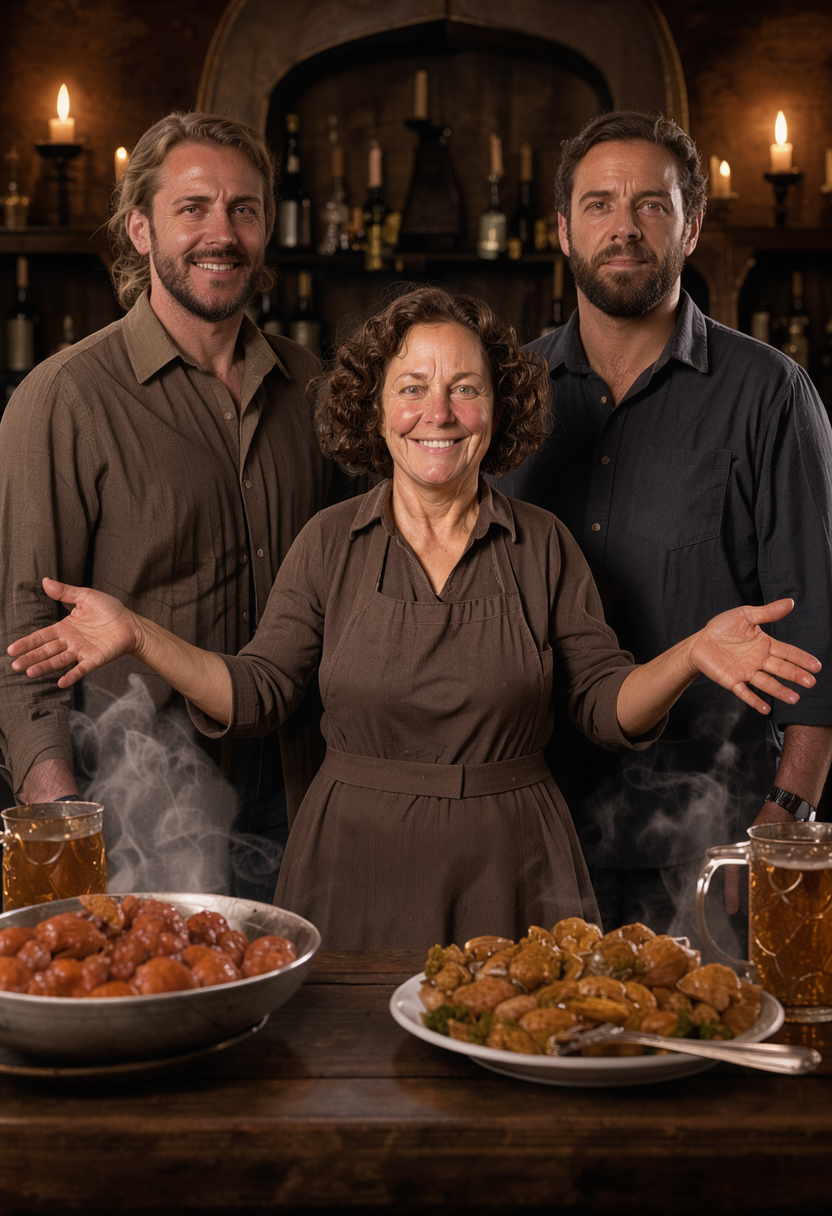
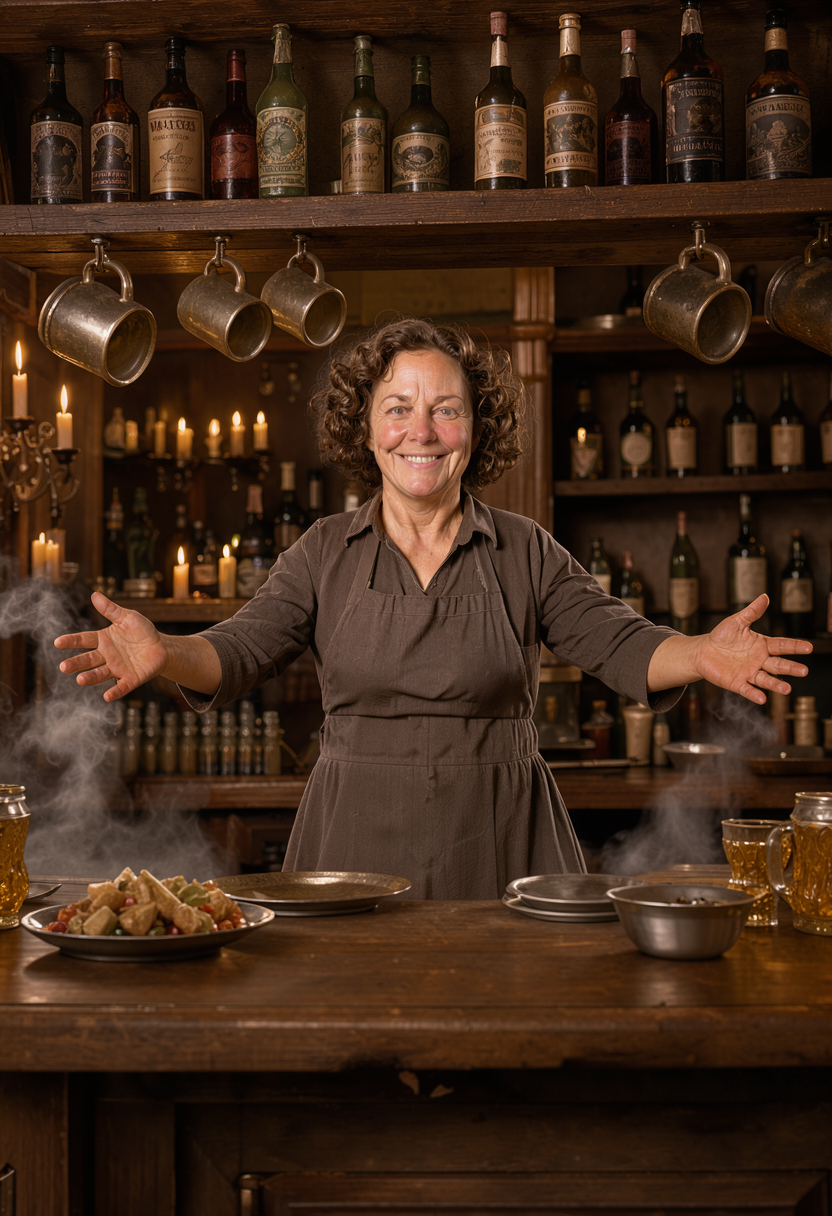
Chronicle J01: cold-reader fixes (dup figs, placeholders, glosses, plate06 v3)

diff --git a/chronicle/journal01/index.html b/chronicle/journal01/index.html
@@ -61,11 +61,11 @@ footer{text-align:center;color:var(--dim);padding:30px;font-size:.85rem}
 </section>
 <section data-ch='ch1'><h2>Chapter 1 — The Downtime Diaries</h2>
 <p>A month passes between adventures, and a responsible Dungeon Master asks what everyone was doing. A responsible party answers with journals. I have kept these journals. I have <em>read</em> these journals. What follows is condensed, because one of them is titled "Chronicles of Rocket Candy" and it is exactly as long as you fear.</p>
-<p>Rocketcandy spent the month on cliff duty, hurling stirges like javelins off the observatory rocks, and reports all of this the way other people report the weather. Eighteen armor class. Stayed, in his words, "to become a legend." He then describes exiting a cave trailing marine layer behind him purely, and I quote, "because I enjoy the aesthetic of walking out of the mist like a storm made flesh." I did not ask him to read that part aloud. Nobody can stop him from reading things aloud.</p>
+<p>Rocketcandy spent the month on cliff duty, hurling stirges like javelins off the observatory rocks, and reports all of this the way other people report the weather. Eighteen armor class — how hard he is to hit, for the civilians — and stayed, in his words, "to become a legend." He then describes exiting a cave trailing marine layer behind him purely, and I quote, "because I enjoy the aesthetic of walking out of the mist like a storm made flesh." I did not ask him to read that part aloud. Nobody can stop him from reading things aloud.</p>
 <p>Shade's contribution is titled "absolutely not diary of shade," which tells you most of what you need, and describes a coin landing on its edge, the wind pausing, and an unseen hand moving pieces across some board. His conclusion: "I do not intend to be a pawn." Four sentences. The man rations words like trail rations, and every one of them is doing threat assessment.</p>
 <p>Gulgrim stayed on the isle making potions and meditating on what it means to heal and protect people, which is the single healthiest month anyone in this party has ever had, and nobody has tried to replicate it since.</p>
-<p>Keechwah went to the archives. Bargained with traveling sages. Hunched over candlelight comparing arcane theories, testing the pact magic instead of merely wielding it, recording everything in a growing grimoire. His thesis, boiled down: true power is constructed, not stumbled upon. It is the most disciplined thing anyone at my table has ever said, and I need you to remember that, because within the week he will be staring at his own empty hand while his god ignores him.</p>
-<p>Chip left the isle early — for Neverwinter, for the stars. Star-maps. Beginner stonehenges, dragged into place by a water bear. Suspicious rope and horse tack he declines to explain. Chip's months are indistinguishable from his days, which is either enlightenment or the druid lifestyle, and I have stopped trying to tell the difference.</p>
+<p>Keechwah went to the archives. Bargained with traveling sages — a horned tiefling warlock, skin an unnatural red-brown the table has agreed not to stare at. Hunched over candlelight comparing arcane theories, testing the pact magic instead of merely wielding it — a warlock's power comes through a patron, an otherworldly being he has a deal with, which is the whole arrangement — recording everything in a growing grimoire. His thesis, boiled down: true power is constructed, not stumbled upon. It is the most disciplined thing anyone at my table has ever said, and I need you to remember that, because within the week he will be staring at his own empty hand while his god ignores him.</p>
+<p>Chip left the isle early — for Neverwinter, for the stars. Star-maps. Beginner stonehenges, dragged into place by Water Bear — Albert on the bad days, same bear, and nobody has ever gotten an explanation. Suspicious rope and horse tack he declines to explain. Chip's months are indistinguishable from his days, which is either enlightenment or the druid lifestyle, and I have stopped trying to tell the difference.</p>
 <aside class='dmnote'><strong>DM NOTE — PREPARATION STATUS: the ferry.</strong> *One boat ride. Six journals. I had</aside>
 <p>budgeted ten minutes for the crossing. It took forty. I have started budgeting for who these people are instead of what I planned.*</p>
 <figure><img src='plates/plate02_rocketcandy_cliff.png' loading='lazy'><figcaption>Cliff duty. Stirges. Eighteen armor class. Legend, pending.</figcaption></figure>
@@ -80,7 +80,7 @@ footer{text-align:center;color:var(--dim);padding:30px;font-size:.85rem}
 <p>Meanwhile Shade is doing what Shade does, which is looking at the thing nobody mentioned. Of six guards, one or two bear a small sigil inked inside the wrist. Shade clocks it. Ben files it. The tax collector has it.</p>
 <aside class='dmnote'><strong>DM NOTE — THINGS I LEARNED.</strong> *Tattoo the conspiracy onto the toll booth and the</aside>
 <p>rogue WILL find it in eleven minutes. Do not tattoo anything you are not prepared to explain before lunch.*</p>
-<p>Mid-ferry, a sixth player arrives. Derek — Vadania, wood elf ranger — joins the table nineteen minutes into the session having missed the entire adventure to date, and covers it the way you cover a late arrival to a tavern: by announcing he has been training for revenge, alone, for his family, and is now, finally, peppy. "Since I met you guys, I've been pretty peppy in spirits. Now that I finally feel like I have some friends and been a loner for such a long time, it's nice to have you guys around." The party adopts him instantly. Loneliness is the one backstory nobody at this table is willing to fail a check against.</p>
+<p>Mid-ferry, a sixth player arrives. Derek — that's the player; Vadania, wood elf ranger, is the character, and I will use whichever name the moment deserves — joins the table nineteen minutes into the session having missed the entire adventure to date, and covers it the way you cover a late arrival to a tavern: by announcing he has been training for revenge, alone, for his family, and is now, finally, peppy. "Since I met you guys, I've been pretty peppy in spirits. Now that I finally feel like I have some friends and been a loner for such a long time, it's nice to have you guys around." The party adopts him instantly. Loneliness is the one backstory nobody at this table is willing to fail a check against. Chip meets the ferry, hugs nobody, and peels off for supplies on the eastern edge of town — he will rejoin this story through the back door of a general store, and it will not go well.</p>
 <p>Then they walk into my city, past the dragonborn and the goliaths and the market crowds, and tell the innkeeper absolutely everything. But that is the next chapter.</p>
 <figure><img src='plates/plate05_ferry.png' loading='lazy'><figcaption>Thirty thousand souls, one toll booth, zero impulse control.</figcaption></figure>
 </section>
@@ -92,11 +92,8 @@ footer{text-align:center;color:var(--dim);padding:30px;font-size:.85rem}
 <p>Marigold screams.</p>
 <p>The whole room startles. Chairs scrape. And Ben, who has run halflings for years, watches his halfling innkeeper explain between gasps that her people do <em>not</em> have positive experiences with dragons, that they quite terrify her, and then — because the party has mentioned mushroom people in passing — sit in absolute awe of the revelation that mushroom people <em>exist</em>. "How? What could possibly be next? My heart!" she says, hands to her chest, and I want you to picture it: a three-foot woman who has just learned two impossible things before dessert, holding her heart like it might file a complaint.</p>
 <p>Vadania, to his credit, is asked what the party is even doing, and answers, more or less: "Good question. We have no idea. Right now we're just eating. Well, I'm just eating some shit."</p>
-<p><em>[Sample continues in full production through: the hooded stranger, job board, THIEVES!, Chip's thread, and the mansion — Chapters 3 (rest) through 8.]</em></p>
-<hr>
 <figure><img src='plates/plate06_marigold_welcome.png' loading='lazy'><figcaption>Marigold's Inn. All three feet of her.</figcaption></figure>
 <figure><img src='plates/plate07_dragonscream.png' loading='lazy'><figcaption>He said the word. The room had opinions.</figcaption></figure>
-<figure><img src='plates/plate08a_hooded.png' loading='lazy'><figcaption>The corner table. Do not approach. (Approach.)</figcaption></figure>
 </section>
 <section data-ch='ch4'><h2>Chapter 4 — The Man Who Chose to Be Mysterious</h2>
 <p>The stranger in the corner has been sitting there through all of this — the screaming, the mushroom-people awe, the appetizers — doing absolutely nothing, which in my experience is either a sign of a very good assassin or a very committed bit. He wears a long cloak with deep green filigree, boots with silver buckles, and a hood so deep that the face inside is just mist and pipe smoke. A half-finished bowl of soup steams in front of him. He has not touched it. Nobody lets soup go cold for atmosphere unless they mean it.</p>
@@ -108,9 +105,8 @@ footer{text-align:center;color:var(--dim);padding:30px;font-size:.85rem}
 <aside class='dmnote'><strong>DM NOTE — FORESHADOWING, RATED.</strong> *Hooded stranger in the corner: planted. Soup:</aside>
 <p>wasted. Ladle trajectory: the single most honest dice roll of the night, and nobody rolled anything.*</p>
 <hr>
-<figure><img src='plates/plate06_marigold_welcome.png' loading='lazy'><figcaption>Marigold's Inn. All three feet of her.</figcaption></figure>
-<figure><img src='plates/plate07_dragonscream.png' loading='lazy'><figcaption>He said the word. The room had opinions.</figcaption></figure>
 <figure><img src='plates/plate08a_hooded.png' loading='lazy'><figcaption>The corner table. Do not approach. (Approach.)</figcaption></figure>
+<figure><img src='plates/plate08b_kindly.png' loading='lazy'><figcaption>Dark and mysterious. His decision.</figcaption></figure>
 </section>
 <section data-ch='ch5'><h2>Chapter 5 — The Kitten and the Six Hundred Gold</h2>
 <p>The job board stands next to the beer garden, which is exactly where you put a job board if you want every decision made within arm's reach of ale. It is covered — dozens of overlapping notices, and I described every one of them, because I am a professional and professionals commit to the bit. Lost calico kitten. Restaurant work, ten a day. A coffee cart. Construction, twenty a day. Dollar amounts everywhere, none of them large, all of them flapping in the sea breeze like the board is trying to fan itself.</p>
@@ -149,16 +145,16 @@ footer{text-align:center;color:var(--dim);padding:30px;font-size:.85rem}
 <p>Chip comes back into Neverwinter from the eastern forest, alone except for several tons of owlbear, and re-enters through the old eastern ruins — a patched, half-ruined wall with no active work crew, the kind of civic project everyone has agreed to stop noticing. Below it sprawls a tent city of soldiers: legions camped on the march, watching a druid and his water bear walk past like a parade they were not invited to. Every head turns. Chip waves, presumably. Chip would wave.</p>
 <p>The market directs him to a general-goods store called Good and Ready, and here the afternoon achieves its purest form. Chip enters with Water Bear. Water Bear fills the doorway the way weather fills a valley. Water Bear's shoulder catches a shelf. A vase wobbles. Chip — barefoot reflexes, druid grace, eleven against a difficulty of ten — sticks out one foot and <em>kicks the vase back into place mid-air</em>. The vase is saved. The vase is also now rolling loudly across the shelf, and the proprietor comes out shouting "get it out!" with the particular fury of a man whose merchandise was just drop-kicked by a customer.</p>
 <p>The proprietor reads Chip head to toe — woods-dirt, feathers, the whole feral apparition — and produces a slur for it, one of those fantasy bigotries that translates, loosely, to <em>hippie</em>. Browse, he says. Pay at the counter. Chip, genial as sunrise, tells Water Bear — "Albert," he calls him, a name that appears exactly once in the record and is never explained, and I have chosen to love it rather than solve it — to wait outside. The bear obeys. The bear is the most professional person in this building.</p>
-<p>Then three city guards walk in, and the temperature of the scene drops ten degrees. They go to the counter. They talk quietly with the proprietor. Chip, whose curiosity is a load-bearing character trait, tries to listen in: stealth seven (they notice), perception nine (he catches nothing but the tone, which is unpleasant the way smoke is unpleasant). So he browses louder, which is Chip's version of subtlety, and waits for the weather to change. It changes toward him.</p>
+<p>Then three city guards walk in — plain-steel patrol issue, none of the market square's red-plumed parade dress — and the temperature of the scene drops ten degrees. They go to the counter. They talk quietly with the proprietor. Chip, whose curiosity is a load-bearing character trait, tries to listen in: stealth seven (they notice), perception nine (he catches nothing but the tone, which is unpleasant the way smoke is unpleasant). So he browses louder, which is Chip's version of subtlety, and waits for the weather to change. It changes toward him.</p>
 <p>One of the guards recognizes him. In here a few weeks ago, he says. Which gate did you come through? Chip says the Southwest. The guards note, with professional patience, that he was not there this morning. A sword slides out and rises until the point sits under Chip's chin, and the guard asks him, almost gently: "You wouldn't lie to me now, would you?"</p>
 <p>Reader, he would. He <em>did</em>. Chip's deception totals around eleven, and the guard looks at him the way teachers look at unsigned homework and says the sentence that ends the talking phase: "You're a dirty liar."</p>
 <p>The shakedown lands: double for the bear — forty gold. Chip, to his eternal credit, does not argue the rate. He agrees to pay. He reaches for the pouch — and fumbles it, sleight-of-hand gone sideways, coins flashing where coins should not be, and the guard's hand snaps around his wrist and finds <em>excess</em> gold. The grip tightens. The third guard turns. This is the moment, in the transcript, where the session holds its breath — and where the proprietor, who has been quiet behind his counter for ten minutes, picks up a cast-iron pan and ends the encounter.</p>
 <p>BOOM. BOOM. Two guards drop like stage scenery.</p>
-<p>The third still has Chip's wrist. So Chip — who has spent the entire session being mild — narrates his own stunt: the guard turns to face the other way, and Chip's immediate reaction is "a behind-the-leg sweep, knock him straight to the ground." Opposed strength: Chip sixteen, the guard nine. Down he goes, pinned, and the proprietor steps in with the pan and finishes the set with a WHANG to the forehead. Three guards. One druid. One shopkeeper. One pan. Total party damage taken: a wrist that got grabbed.</p>
+<p>The third still has Chip's wrist. So Chip — who has spent the entire session being mild — narrates his own stunt: the guard turns to face the other way, and Chip's immediate reaction is "a behind-the-leg sweep, knock him straight to the ground." An opposed roll — both sides roll, higher wins: Chip sixteen, the guard nine. Down he goes, pinned, and the proprietor steps in with the pan and finishes the set with a WHANG to the forehead. Three guards. One druid. One shopkeeper. One pan. Total party damage taken: a wrist that got grabbed.</p>
 <aside class='dmnote'><strong>DM NOTE — PREPARATION STATUS: the encounter.</strong> *That was a three-on-one armed</aside>
 <p>shakedown with a sword already drawn. My budgeted outcomes were: pay up, talk down, or fight badly. "Shopkeeper with cookware" was not on the sheet. It is now the only outcome I remember.*</p>
-<p>The proprietor talks, fast, while the adrenaline holds: months of this, the same men, the tax that is not a tax. He shows Chip his own wrist — the ink — and points out the star etched on one guard's mark: the extortionist's badge, the one who runs it. Then the clerks come up from the cellar, stunned and game, and all three guards get hauled downstairs and hogtied back-to-back-to-back in one giant rope ball [final-art note: rerolled plate shows a neat side-by-side row, chest and ankle coils — matches the cellar, reads cleaner; narration adjusts accordingly], wrists and ankles bound together in case they wake. The proprietor writes a note — go find Thumba, keeps an apothecary a few blocks over, come back with whatever fixes <em>this</em> — and shoves Chip out the back door into the evening.</p>
-<p><em>[Transcript gap ~1:24–1:30: Chip's walk north and the party's mansion arrival are untranscribed. The journal bridges it in Ben's voice at the top of Chapter 8.]</em></p>
+<p>The proprietor talks, fast, while the adrenaline holds: months of this, the same men, the tax that is not a tax. He shows Chip his own wrist — the ink — and points out the star etched on one guard's mark: the extortionist's badge, the one who runs it. Then the clerks come up from the cellar, stunned and game, and all three guards get hauled downstairs and trussed in a neat side-by-side row, thick rope coils around their chests and their ankles, wrists bound together in case they wake. The proprietor writes a note — go find Thumba, keeps an apothecary a few blocks over, come back with whatever fixes <em>this</em> — and shoves Chip out the back door into the evening.</p>
+<p>The record skips about six minutes here — back door to mansion foyer — so you'll take my word for the walk uphill. It was dusk. The rich live at the top. Of course they do.</p>
 <hr>
 <figure><img src='plates/plate10b_vase.png' loading='lazy'><figcaption>Eleven versus ten. The vase lives.</figcaption></figure>
 <figure><img src='plates/plate11_pan.png' loading='lazy'><figcaption>The proprietor chooses a side. It is cast iron.</figcaption></figure>
@@ -173,7 +169,7 @@ footer{text-align:center;color:var(--dim);padding:30px;font-size:.85rem}
 <aside class='dmnote'><strong>DM NOTE — INSTANT REVIEW.</strong> *Vicious Mockery, 4 psychic: I hate that. I hate that</aside>
 <p>my NPC's best moment is a cantrip-tier insult. I hate that it worked perfectly. The butler is now my favorite character and he is not even in the party.*</p>
 <p>"Do be careful," the butler tells the room at large. "Don't touch anything." He exits to fetch the quest giver. The party, alone in a mansion full of traps and treasure, does what comes naturally: they look around, and roll poorly, and learn nothing. "Holy. We are blind," somebody reports. Established facts of the foyer: the rug is pretty. It is dark in here. This is the party that clocked uniform tailoring differences at fifty paces, defeated by interior lighting.</p>
-<p>Keechwah proposes Detect Magic — check for traps, check for loot, check for <em>stealable</em> loot, the usual warlock due diligence — and casts it, spending a real spell slot, and I ask Aaron to roll me a d4. Even, it works. Odd, it doesn't. The die comes up odd. And here the session changes temperature, because what happens is not a fizzle. Keechwah reaches down for the wellspring his patron grants him — the place his magic comes from, the relationship he has spent the session cultivating like a garden — and it is not there. Nothing. Not resistance. Absence. He stares at his own empty hand while two thinning purple wisps curl up out of nothing and die, and Derek, watching a warlock misfire, says the table's line for it: "Go do the Aaron thing and go touch something." Even the ranger thinks this is a <em>him</em> problem now.</p>
+<p>Keechwah proposes Detect Magic — check for traps, check for loot, check for <em>stealable</em> loot, the usual warlock due diligence — and casts it, spending a real spell slot (a spell costs one, and they're gone till he sleeps), and I ask Aaron to roll me a d4 — a four-sided die. Even, it works. Odd, it doesn't. The die comes up odd. And here the session changes temperature, because what happens is not a fizzle. Keechwah reaches down for the wellspring his patron grants him — the place his magic comes from, the relationship he has spent the session cultivating like a garden — and it is not there. Nothing. Not resistance. Absence. He stares at his own empty hand while two thinning purple wisps curl up out of nothing and die, and Derek, watching a warlock misfire, says the table's line for it: "Go do the Aaron thing and go touch something." Even the ranger thinks this is a <em>him</em> problem now.</p>
 <p>Then Keechwah hears his name. A voice, familiar the way childhood bedrooms are familiar, speaking directly into the back of his mind where no one else can hear it. His patron. It has been a long time since they communed, and the timing — the <em>exact</em> timing, the moment his magic fails in a strange dark room — is doing a lot of work. He tries to answer mentally, to ask for guidance, for anything. Silence. Blocked, or absent, or simply — his word, and I am keeping it — <em>wily</em>.</p>
 <p>He tells the party straight: "My magic comes from my patron. They're… absent." No joke in it. The table goes quiet in the particular way tables go quiet when the person who finds the hidden posters says the magic is gone. The scholar who constructs his power is holding an empty hand, and something in the dark just said his name like it owns him.</p>
 <p>The butler returns before anyone can sit with that. He clears his throat. And announces Lady Filvenar.</p>
@@ -181,7 +177,6 @@ footer{text-align:center;color:var(--dim);padding:30px;font-size:.85rem}
 <p>Cut across town. A bell dings over a shop door. "Colorful Creations" — Thumba's place, apothecary jars and broadcast stone and lamplight — and a sprightly gentleman bounces out, delighted to the molecular level to see a customer: "Hello, dear boy, what can I do to help you today?"</p>
 <p>Chip holds the note. The guards are tied up in a cellar. The patron is silent. The quest giver is seated. End of session.</p>
 <p><em>Journal 02 hook: the forgetfulness remedy, the star-marked extortionist, and whatever — or whoever — whispered Keechwah's name in the dark.</em></p>
-<hr>
 <figure><img src='plates/plate12b_fizzle.png' loading='lazy'><figcaption>The wellspring is empty.</figcaption></figure>
 <figure><img src='plates/plate12_filvenar.png' loading='lazy'><figcaption>Lady Filvenar. Finally, somebody with a quest.</figcaption></figure>
 <div class='seq'><p class='seqtitle'>S5 · The fizzle — Empty hand. Unheard voice.</p><div class='seqrow'><figure><img src='plates/plate12b_fizzle.png' loading='lazy'><figcaption></figcaption></figure></div></div>

diff --git a/docs/chronicle-journal01-proposal.md b/docs/chronicle-journal01-proposal.md
@@ -203,7 +203,7 @@ them is titled "Chronicles of Rocket Candy" and it is exactly as long as you fea
 
 Rocketcandy spent the month on cliff duty, hurling stirges like javelins off the
 observatory rocks, and reports all of this the way other people report the weather.
-Eighteen armor class. Stayed, in his words, "to become a legend." He then describes
+Eighteen armor class — how hard he is to hit, for the civilians — and stayed, in his words, "to become a legend." He then describes
 exiting a cave trailing marine layer behind him purely, and I quote, "because I
 enjoy the aesthetic of walking out of the mist like a storm made flesh." I did not
 ask him to read that part aloud. Nobody can stop him from reading things aloud.
@@ -218,15 +218,18 @@ Gulgrim stayed on the isle making potions and meditating on what it means to hea
 and protect people, which is the single healthiest month anyone in this party has
 ever had, and nobody has tried to replicate it since.
 
-Keechwah went to the archives. Bargained with traveling sages. Hunched over
+Keechwah went to the archives. Bargained with traveling sages — a horned tiefling
+warlock, skin an unnatural red-brown the table has agreed not to stare at. Hunched over
 candlelight comparing arcane theories, testing the pact magic instead of merely
-wielding it, recording everything in a growing grimoire. His thesis, boiled down:
+wielding it — a warlock's power comes through a patron, an otherworldly being he has
+a deal with, which is the whole arrangement — recording everything in a growing grimoire. His thesis, boiled down:
 true power is constructed, not stumbled upon. It is the most disciplined thing
 anyone at my table has ever said, and I need you to remember that, because within
 the week he will be staring at his own empty hand while his god ignores him.
 
 Chip left the isle early — for Neverwinter, for the stars. Star-maps. Beginner
-stonehenges, dragged into place by a water bear. Suspicious rope and horse tack he
+stonehenges, dragged into place by Water Bear — Albert on the bad days, same bear,
+and nobody has ever gotten an explanation. Suspicious rope and horse tack he
 declines to explain. Chip's months are indistinguishable from his days, which is
 either enlightenment or the druid lifestyle, and I have stopped trying to tell the
 difference.
@@ -264,14 +267,17 @@ Shade clocks it. Ben files it. The tax collector has it.
 rogue WILL find it in eleven minutes. Do not tattoo anything you are not prepared
 to explain before lunch.*
 
-Mid-ferry, a sixth player arrives. Derek — Vadania, wood elf ranger — joins the
+Mid-ferry, a sixth player arrives. Derek — that's the player; Vadania, wood elf
+ranger, is the character, and I will use whichever name the moment deserves — joins the
 table nineteen minutes into the session having missed the entire adventure to date,
 and covers it the way you cover a late arrival to a tavern: by announcing he has
 been training for revenge, alone, for his family, and is now, finally, peppy. "Since
 I met you guys, I've been pretty peppy in spirits. Now that I finally feel like I
 have some friends and been a loner for such a long time, it's nice to have you guys
 around." The party adopts him instantly. Loneliness is the one backstory nobody at
-this table is willing to fail a check against.
+this table is willing to fail a check against. Chip meets the ferry, hugs nobody,
+and peels off for supplies on the eastern edge of town — he will rejoin this story
+through the back door of a general store, and it will not go well.
 
 Then they walk into my city, past the dragonborn and the goliaths and the market
 crowds, and tell the innkeeper absolutely everything. But that is the next chapter.

diff --git a/docs/chronicle-journal01-chapters4-8.md b/docs/chronicle-journal01-chapters4-8.md
@@ -193,7 +193,8 @@ once in the record and is never explained, and I have chosen to love it rather t
 solve it — to wait outside. The bear obeys. The bear is the most professional person
 in this building.
 
-Then three city guards walk in, and the temperature of the scene drops ten degrees.
+Then three city guards walk in — plain-steel patrol issue, none of the market
+square's red-plumed parade dress — and the temperature of the scene drops ten degrees.
 They go to the counter. They talk quietly with the proprietor. Chip, whose curiosity
 is a load-bearing character trait, tries to listen in: stealth seven (they notice),
 perception nine (he catches nothing but the tone, which is unpleasant the way smoke
@@ -223,7 +224,7 @@ BOOM. BOOM. Two guards drop like stage scenery.
 The third still has Chip's wrist. So Chip — who has spent the entire session being
 mild — narrates his own stunt: the guard turns to face the other way, and Chip's
 immediate reaction is "a behind-the-leg sweep, knock him straight to the ground."
-Opposed strength: Chip sixteen, the guard nine. Down he goes, pinned, and the
+An opposed roll — both sides roll, higher wins: Chip sixteen, the guard nine. Down he goes, pinned, and the
 proprietor steps in with the pan and finishes the set with a WHANG to the forehead.
 Three guards. One druid. One shopkeeper. One pan. Total party damage taken: a wrist
 that got grabbed.
@@ -237,15 +238,14 @@ The proprietor talks, fast, while the adrenaline holds: months of this, the same
 men, the tax that is not a tax. He shows Chip his own wrist — the ink — and points
 out the star etched on one guard's mark: the extortionist's badge, the one who runs
 it. Then the clerks come up from the cellar, stunned and game, and all three guards
-get hauled downstairs and hogtied back-to-back-to-back in one giant rope ball
-[final-art note: rerolled plate shows a neat side-by-side row, chest and ankle
-coils — matches the cellar, reads cleaner; narration adjusts accordingly], wrists
-and ankles bound together in case they wake. The proprietor writes a note — go find
+get hauled downstairs and trussed in a neat side-by-side row, thick rope coils
+around their chests and their ankles, wrists bound together in case they wake. The proprietor writes a note — go find
 Thumba, keeps an apothecary a few blocks over, come back with whatever fixes *this*
 — and shoves Chip out the back door into the evening.
 
-*[Transcript gap ~1:24–1:30: Chip's walk north and the party's mansion arrival are
-untranscribed. The journal bridges it in Ben's voice at the top of Chapter 8.]*
+The record skips about six minutes here — back door to mansion foyer — so you'll
+take my word for the walk uphill. It was dusk. The rich live at the top. Of course
+they do.
 
 ---
 
@@ -286,7 +286,8 @@ tailoring differences at fifty paces, defeated by interior lighting.
 
 Keechwah proposes Detect Magic — check for traps, check for loot, check for
 *stealable* loot, the usual warlock due diligence — and casts it, spending a real
-spell slot, and I ask Aaron to roll me a d4. Even, it works. Odd, it doesn't. The
+spell slot (a spell costs one, and they're gone till he sleeps), and I ask Aaron to
+roll me a d4 — a four-sided die. Even, it works. Odd, it doesn't. The
 die comes up odd. And here the session changes temperature, because what happens is
 not a fizzle. Keechwah reaches down for the wellspring his patron grants him — the
 place his magic comes from, the relationship he has spent the session cultivating
